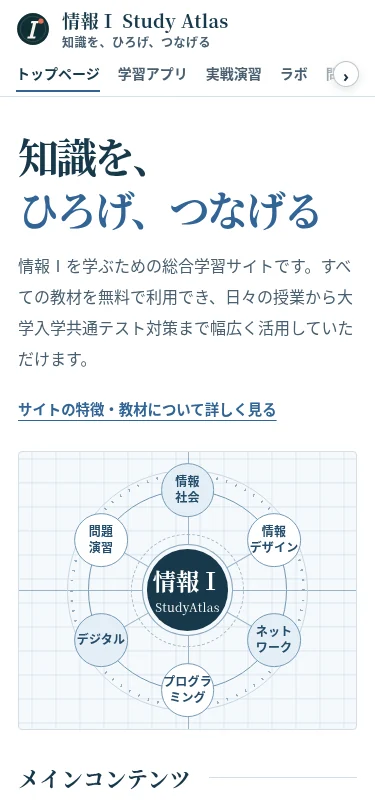
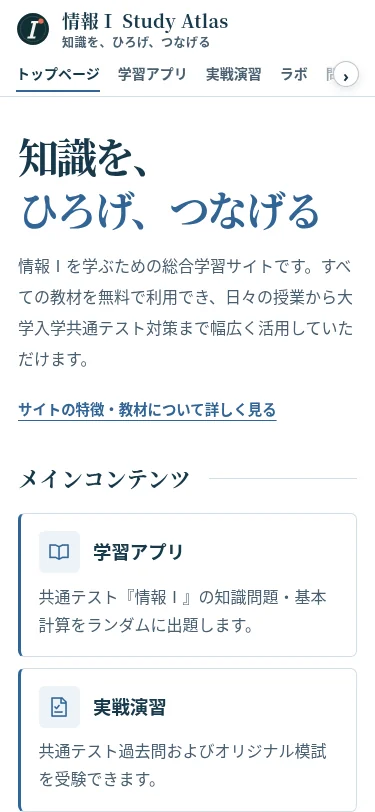
従来の円形図を広い画面に限定し開始操作を深緑に統一

diff --git a/assets/home.css b/assets/home.css
@@ -27,96 +27,16 @@
 .hero-about-link { margin: .9rem 0 0; }
 .hero-about-link a { display: inline-block; padding: .45rem 0; color: var(--atlas-blue); font-size: .9rem; font-weight: 650; text-underline-offset: .35em; }
 
-.hero-visual {
-  --map-grid: #dae6ee;
-  --map-line: #98b5ca;
-  isolation: isolate;
-  position: relative;
-  display: grid;
-  place-items: center;
-  overflow: hidden;
-  background-color: #f5f9fc;
-  background-image: linear-gradient(to right, var(--map-grid) 1px, transparent 1px),
-                    linear-gradient(to bottom, var(--map-grid) 1px, transparent 1px);
-  background-size: 1.5rem 1.5rem;
-  background-position: center;
-  border: 1px solid var(--atlas-line);
-  border-radius: .25rem;
-  padding: .65rem;
-}
-.hero-visual::before, .hero-visual::after {
-  content: "";
-  position: absolute;
-  z-index: -1;
-  background: var(--map-line);
-}
-.hero-visual::before { top: 50%; left: 0; width: 100%; height: 1px; }
-.hero-visual::after { top: 0; left: 50%; width: 1px; height: 100%; }
-
-.hero-map { width: min(100%, 21rem); aspect-ratio: 1; position: relative; }
-.map-orbit, .hero-map::before, .hero-map::after {
-  position: absolute;
-  border-radius: 50%;
-  pointer-events: none;
-}
-.orbit-one { inset: 11%; border: 1px solid #7298b4; }
-.orbit-two { inset: 28%; border: 1px dashed #a3bbcb; }
-.hero-map::before {
-  content: "";
-  inset: 4%;
-  background: repeating-conic-gradient(from -.5deg, #94aec3 0 .65deg, transparent .65deg 5deg);
-  mask: radial-gradient(circle closest-side, transparent calc(100% - 3px), #000 calc(100% - 3px));
-}
-.hero-map::after { content: ""; inset: 3%; border: 1px solid #c7d8e4; }
-.map-spokes { position: absolute; inset: 0; }
-.map-spokes::before, .map-spokes::after {
-  content: "";
-  position: absolute;
-  left: 50%;
-  top: 11%;
-  height: 78%;
-  border-left: 1px solid var(--map-line);
-  transform: rotate(60deg);
-}
-.map-spokes::after { transform: rotate(-60deg); }
-.map-core, .map-node {
-  position: absolute;
-  display: grid;
-  place-content: center;
-  text-align: center;
-  border-radius: 50%;
-  line-height: 1.35;
-}
-.map-core {
-  inset: 34%;
-  z-index: 2;
-  color: #fff;
-  background: var(--atlas-ink);
-  box-shadow: 0 0 0 4px #f5f9fc, 0 0 0 5px #8aa8bf;
-}
-.map-core strong { font: 600 clamp(1.45rem, 2.2vw, 2rem)/1.4 var(--home-serif); }
-.map-core small { font: 500 .75rem/1.6 Georgia, serif; letter-spacing: .03em; }
-.map-node {
-  z-index: 3;
-  top: var(--y);
-  left: var(--x);
-  transform: translate(-50%, -50%);
-  width: 21%;
-  aspect-ratio: 1;
-  border: 1px solid #759cb9;
-  background: #fff;
-  color: #254d6b;
-  font-size: clamp(.75rem, 1.12vw, .9rem);
-  font-weight: 650;
-  letter-spacing: .015em;
-}
-.node-a { --x: 50%; --y: 11%; }
-.node-b { --x: 83.8%; --y: 30.5%; }
-.node-c { --x: 83.8%; --y: 69.5%; }
-.node-d { --x: 50%; --y: 89%; }
-.node-e { --x: 16.2%; --y: 69.5%; }
-.node-f { --x: 16.2%; --y: 30.5%; }
-.node-a, .node-c, .node-e { background-color: #e4eef6; }
+.hero-visual { min-width: 0; display: grid; justify-items: center; gap: 18px; }
+.hero-map { position: relative; width: min(100%, 540px); aspect-ratio: 1; margin: auto; }
+.map-orbit { position: absolute; inset: 12%; border: 1px solid rgb(16 47 53 / 24%); border-radius: 50%; }
+.orbit-two { inset: 24%; border-style: dashed; transform: rotate(18deg); }
+.map-core { position: absolute; z-index: 2; inset: 35%; display: grid; place-content: center; text-align: center; color: var(--white); background: var(--ink); border-radius: 50%; box-shadow: 0 25px 70px rgb(16 47 53 / 22%); }
+.map-core::before { content: ""; position: absolute; inset: 8px; border: 1px solid rgb(255 255 255 / 25%); border-radius: 50%; }
+.map-core strong { font-family: Georgia, "Yu Mincho", serif; font-size: clamp(1.6rem, 4vw, 2.6rem); font-weight: 500; }
+.map-core small { margin-top: 8px; font-family: Arial, sans-serif; font-size: .55rem; letter-spacing: .15em; line-height: 1.5; }
+.map-node { position: absolute; z-index: 3; width: 98px; height: 98px; padding: 8px; display: grid; place-items: center; border: 7px solid var(--paper); border-radius: 50%; color: var(--white); font-size: .68rem; font-weight: 800; line-height: 1.35; text-align: center; box-shadow: 0 12px 30px rgb(16 47 53 / 14%); }
+.node-a { top: -2%; left: 40%; background: var(--coral-strong); }.node-b { top: 20%; right: -1%; background: var(--amber-strong); }.node-c { right: 5%; bottom: 8%; background: var(--blue-strong); }.node-d { bottom: -2%; left: 30%; background: var(--mint-strong); }.node-e { bottom: 18%; left: -2%; background: var(--violet-strong); }.node-f { top: 14%; left: 1%; background: var(--pink-strong); }
 
 .home-page .section { width: var(--home-width); padding: 0 0 clamp(2.3rem, 4vw, 4rem); }
 .home-section-title {
@@ -208,10 +128,10 @@
   .hero { gap: 1.5rem; }
   .home-misc-grid { grid-template-columns: repeat(2, minmax(0, 1fr)); }
 }
-@media (max-width: 42rem) {
+@media (max-width: 680px) {
   .hero { grid-template-columns: 1fr; gap: 1.3rem; padding: 2rem 0; }
   .hero-lead { margin-top: .9rem; }
-  .hero-map { width: min(100%, 16rem); }
+  .hero-visual { display: none; }
   .home-action-grid, .home-misc-grid { grid-template-columns: 1fr; }
   .home-action-grid { gap: .65rem; }
   .home-action-heading { flex-direction: row; align-items: center; }

diff --git a/lab/question-map/question-map.css b/lab/question-map/question-map.css
@@ -83,11 +83,11 @@ html.question-detail-open { overflow: hidden; }
 .card-explanation summary { cursor: pointer; color: var(--mint-strong); padding: 8px 0; font-weight: 700; }
 .card-source { color: var(--ink-soft); font-size: .68rem; margin: 12px 0; }
 .card-tags { font-size: .7rem; color: var(--pink-strong); margin: 10px 0 0; }
-.card-practice { display: inline-block; padding: 10px 0; margin-top: 10px; font-size: .84rem; font-weight: 700; color: var(--mint-strong); text-underline-offset: 4px; }
+.card-practice { display: inline-block; padding: 10px 0; margin-top: 10px; font-size: .84rem; font-weight: 700; color: var(--atlas-action); text-underline-offset: 4px; }
 .score-source { display: flex; align-items: center; flex-wrap: wrap; gap: 8px; padding: 0 20px 10px; font-size: .75rem; }
 .score-source button { padding: 7px 12px; min-height: 40px; border: 1px solid var(--line); border-radius: 7px; background: transparent; }
 .score-source button[aria-pressed="true"] { background: var(--ink); color: var(--white); border-color: var(--ink); }
-.score-source .region-practice { margin-left: 16px; border-color: var(--mint-strong); color: var(--mint-strong); font-weight: 600; white-space: nowrap; }
+.score-source .region-practice { margin-left: 16px; border-color: var(--atlas-action); color: var(--atlas-action); font-weight: 600; white-space: nowrap; }
 .score-source .region-practice:disabled { opacity: .45; cursor: default; }
 .region-dialog { box-sizing: border-box; width: min(560px, calc(100% - 24px)); max-height: 88svh; padding: 22px; overflow: auto; overscroll-behavior: contain; border: 1px solid var(--line); border-radius: 16px; background: var(--white); color: var(--ink); }
 .region-dialog::backdrop { background: rgb(16 47 53 / 45%); }
@@ -98,7 +98,7 @@ html.question-detail-open { overflow: hidden; }
 .region-zoom { position: absolute; right: 8px; top: 8px; display: flex; flex-direction: column; gap: 4px; }
 .region-zoom button { width: 40px; height: 40px; padding: 0; border: 1px solid var(--line); border-radius: 7px; background: rgb(255 255 255 / 95%); color: var(--ink); font: inherit; font-size: 1.2rem; cursor: pointer; }
 #region-hint { font-size: .7rem; line-height: 1.6; }
-.region-start { display: block; padding: 12px; border-radius: 9px; background: var(--mint-strong); color: var(--white); text-align: center; text-decoration: none; font-size: .9rem; font-weight: 600; }
+.region-start { display: block; padding: 12px; border-radius: 9px; background: var(--atlas-action); color: var(--white); text-align: center; text-decoration: none; font-size: .9rem; font-weight: 600; }
 .region-start[aria-disabled="true"] { background: #e8efed; color: var(--ink-soft); cursor: default; }
 .region-dialog :focus-visible { outline: 3px solid var(--mint-strong); outline-offset: 3px; }
 #score-status { color: var(--ink-soft); }

diff --git a/assets/site.css b/assets/site.css
@@ -35,7 +35,8 @@ img { max-width: 100%; }
 .page-hero h1 { margin: 0; font-family: Georgia, "Yu Mincho", "Hiragino Mincho ProN", serif; font-weight: 500; letter-spacing: -.035em; line-height: 1.18; }
 .button { min-height: 52px; padding: 12px 24px; display: inline-flex; align-items: center; justify-content: center; gap: 10px; border: 1px solid var(--ink); border-radius: var(--atlas-radius); font-size: 1rem; font-weight: 700; text-decoration: none; transition: transform .2s ease, box-shadow .2s ease, background .2s ease; }
 .button:hover { box-shadow: var(--atlas-shadow); text-decoration: underline; text-underline-offset: .2em; }
-.button-primary { color: var(--white); background: var(--ink); }
+.button-primary { color: var(--white); background: var(--atlas-control); border-color: var(--atlas-control); }
+.button-primary:hover { background: var(--atlas-control-hover); }
 .button-ghost { background: transparent; }
 .button-light { border-color: var(--white); color: var(--ink); background: var(--white); }
 
@@ -275,7 +276,8 @@ ins.adsbygoogle[data-ad-status="unfilled"] { display: none !important; }
 .tag-challenge-stepper-button { width: 38px; min-height: 28px; padding: 0; border: 1px solid rgb(16 47 53 / 28%); border-radius: 7px; color: var(--ink); background: var(--white); cursor: pointer; font: inherit; font-size: .72rem; font-weight: 900; line-height: 1; }
 .tag-challenge-stepper-button:hover:not(:disabled), .tag-challenge-stepper-button:focus-visible { border-color: var(--atlas-blue); background: #f9e8e2; }
 .tag-challenge-stepper-button:disabled { opacity: .4; cursor: not-allowed; }
-.tag-challenge-start { min-width: 260px; border: 1px solid var(--ink); cursor: pointer; font: inherit; }
+.tag-challenge-start { min-width: 260px; color: white; background: var(--atlas-action); border: 1px solid var(--atlas-action); cursor: pointer; font: inherit; }
+.tag-challenge-start:hover:not(:disabled) { background: var(--atlas-action-hover); }
 .tag-challenge-start:disabled { opacity: .48; cursor: not-allowed; transform: none; box-shadow: none; }
 .filter-result-list { display: block; }
 .filtered-question-shell { margin: 0; padding: 0; border: 0; }

diff --git a/index.html b/index.html
@@ -47,7 +47,6 @@
         </div>
         <div class="hero-visual">
           <div class="hero-map" role="img" aria-label="情報Ⅰを中心に、情報社会、情報デザイン、ネットワーク、プログラミング、デジタル、問題演習がつながる図">
-            <span class="map-spokes" aria-hidden="true"></span>
             <span class="map-orbit orbit-one" aria-hidden="true"></span><span class="map-orbit orbit-two" aria-hidden="true"></span>
             <span class="map-core"><strong>情報Ⅰ</strong><small>StudyAtlas</small></span>
             <span class="map-node node-a">情報<br />社会</span>

diff --git a/mock-exams/app.css b/mock-exams/app.css
@@ -44,10 +44,17 @@ summary:focus-visible {
   outline-offset: 3px;
 }
 button.primary {
-  background: var(--mock-accent);
+  background: var(--atlas-control);
   color: white;
-  border-color: var(--mock-accent);
+  border-color: var(--atlas-control);
 }
+button.primary:hover { background: var(--atlas-control-hover); }
+button:is([data-start], [data-resume], .resume-action) {
+  color: white;
+  background: var(--atlas-action);
+  border-color: var(--atlas-action);
+}
+button:is([data-start], [data-resume], .resume-action):hover { background: var(--atlas-action-hover); }
 button:disabled {
   cursor: default;
   opacity: 0.6;

diff --git a/assets/term-page.css b/assets/term-page.css
@@ -219,10 +219,13 @@
 .term-challenge-button {
   flex: 0 0 auto;
   min-width: 220px;
-  border: 1px solid var(--ink);
+  background: var(--atlas-action);
+  border: 1px solid var(--atlas-action);
   cursor: pointer;
   font: inherit;
 }
+
+.term-challenge-button:hover:not(:disabled) { background: var(--atlas-action-hover); }
 
 .term-challenge-button:disabled {
   opacity: .55;

diff --git a/assets/atlas-tokens.css b/assets/atlas-tokens.css
@@ -6,6 +6,10 @@
   --atlas-ink: #18394b;
   --atlas-muted: #495f70;
   --atlas-blue: #326596;
+  --atlas-action: #306653;
+  --atlas-action-hover: #234e40;
+  --atlas-control: #4b6371;
+  --atlas-control-hover: #374e5a;
   --atlas-line: #d4dfe7;
   --atlas-radius: .625rem;
   --atlas-shadow: 0 2px 8px rgb(24 57 75 / 5%);

diff --git a/docs/DESIGN.md b/docs/DESIGN.md
@@ -11,7 +11,9 @@
 | 補足背景 | --atlas-soft | #EDF4F9 |
 | 見出し・本文 | --atlas-ink | #18394B |
 | 補助文 | --atlas-muted | #495F70 |
-| リンク・アクション・フォーカス | --atlas-blue | #326596 |
+| 開始・再開・再挑戦 | --atlas-action | #306653 |
+| 次へ・採点などの操作 | --atlas-control | #4B6371 |
+| リンク・フォーカス | --atlas-blue | #326596 |
 | 境界線 | --atlas-line | #D4DFE7 |
 
 本文は日本語のゴシック体を使い、16px相当を基本とする。読み物は行高1.7〜1.9を目安にする。トップ・記事タイトルの明朝体には、共通の見出し用フォントを利用できる。章見出しは画面幅に応じて拡縮し、説明文や操作ラベルよりはっきり大きくする。正答・誤答、実行行、グラフの系列や図の色には、それぞれの凡例と意味を優先する。

diff --git a/docs/design-review/README.md b/docs/design-review/README.md
@@ -4,7 +4,7 @@
 
 | 領域 | 主な変更 |
 | --- | --- |
-| トップ | 円形の学習地図を狭い画面にも表示。主要教材3件、サブ教材、案内の順で入口を整理 |
+| トップ | PC・タブレットでは従来の色付き円形図を表示。680px以下では図を省いて教材への導線を優先。主要教材3件、サブ教材、案内の順で入口を整理 |
 | 共通UI・解説動画・書籍・案内 | 色・余白の基準、ヘッダー、現在地、フォーカス、本文と一覧の文字サイズを共通化 |
 | 用語一覧・用語記事 | 検索入力、表示条件、記事見出しを統一。お気に入り・既読・ハイライトの各状態を維持 |
 | 講義ノート | 独自ヘッダー・フッターを共通CSSへ移行。白地の表題、章の余白、用語への導線を整理 |
